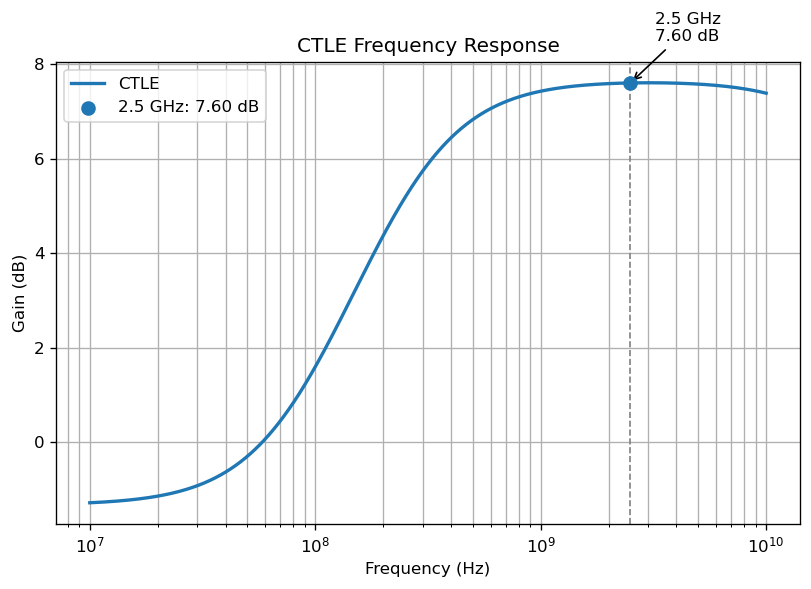
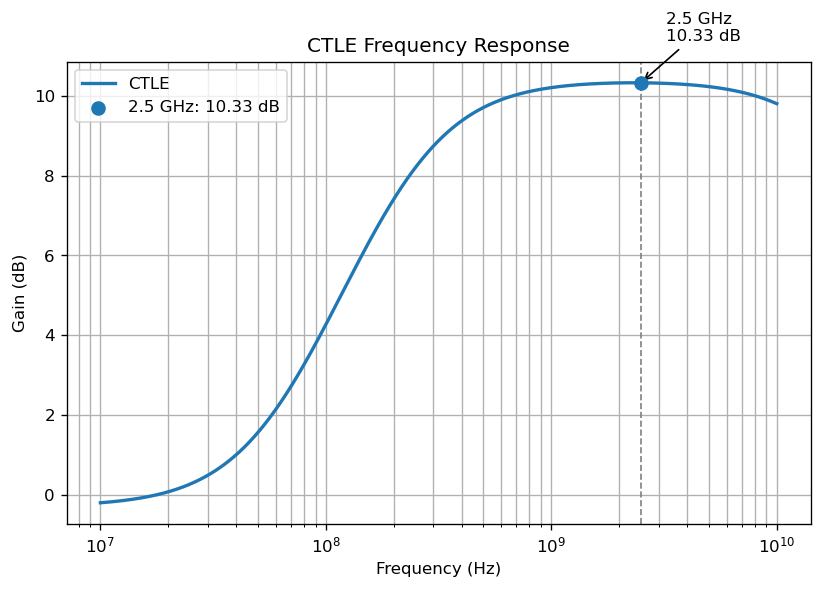
uploaded pvt analysis functions

diff --git a/simulation/pvt_analysis.py b/simulation/pvt_analysis.py
@@ -1,0 +1,93 @@
+import core
+globals().update(vars(core))
+
+from circuits.ctle import ctle
+
+from simulation.frequency_response import *
+from simulation.hd3_analysis import *
+from simulation.eye_analysis import *
+from simulation.noise_analysis import *
+
+PROCESS_CORNERS = ["tt", "ss", "ff", "sf", "fs"]
+VDD_VALUES = [1.71, 1.80, 1.89]
+TEMPERATURES = list(range(0,126,25))
+
+def pvt_analysis(
+    W, L, Rs, Cs, Rd, Ibias
+):
+
+    results = []
+
+    for corner in PROCESS_CORNERS:
+        for vdd in VDD_VALUES:
+            for temperature in TEMPERATURES:
+
+                print(
+                    f"\nPVT: {corner} | "
+                    f"VDD={vdd:.2f} V | "
+                    f"T={temperature} C"
+                )
+
+                freq = frequency_response(
+                    W=W,
+                    L=L,
+                    Rs=Rs,
+                    Cs=Cs,
+                    Rd=Rd,
+                    Ibias=Ibias,
+                    corner=corner,
+                    Vdd=vdd,
+                    temperature=temperature)
+
+                hd3 = hd3_analysis(
+                    W=W,
+                    L=L,
+                    Rs=Rs,
+                    Cs=Cs,
+                    Rd=Rd,
+                    Ibias=Ibias,
+                    corner=corner,
+                    Vdd=vdd,
+                    temperature=temperature)
+
+                noise = input_referred_noise(
+                    W=W,
+                    L=L,
+                    Rs=Rs,
+                    Cs=Cs,
+                    Rd=Rd,
+                    Ibias=Ibias,
+                    corner=corner,
+                    Vdd=vdd,
+                    temperature=temperature)
+
+                result = {
+                    "corner": corner,
+                    "vdd": vdd,
+                    "temperature": temperature,
+                    "dc_gain": freq["dc_gain"],
+                    "boost_db": freq["boost_db"],
+                    "peak_freq": freq["peak_freq"],
+                    "hd3_db": hd3,
+                    "noise_rms": noise,
+                }
+
+                result["pass"] = (
+                    3 <= freq["boost_db"] <= 12
+                    and 1.25e9 <= freq["peak_freq"] <= 2.5e9
+                    and hd3 < -30
+                    and noise < 1.5e-3
+                )
+
+                results.append(result)
+
+                print(
+                    f"  DC gain : {freq['dc_gain']:.2f} dB\n"
+                    f"  Boost   : {freq['boost_db']:.2f} dB\n"
+                    f"  Peak    : {freq['peak_freq']/1e9:.2f} GHz\n"
+                    f"  HD3     : {hd3:.2f} dB\n"
+                    f"  Noise   : {noise*1e3:.3f} mV RMS\n"
+                    f"  PASS    : {result['pass']}"
+                )
+
+    return results

diff --git a/evaluate.py b/evaluate.py
@@ -7,12 +7,39 @@ from simulation.frequency_response import *
 from simulation.hd3_analysis import *
 from simulation.eye_analysis import *
 from simulation.noise_analysis import *
+from simulation.pvt_analysis import *
 
 params = CTLEParams()
 
 print(params)
 
-frequency_response(
+# frequency_response(
+#     W = CTLEParams.W,
+#     L = CTLEParams.L,
+#     Rs = CTLEParams.Rs,
+#     Cs = CTLEParams.Cs,
+#     Rd = CTLEParams.Rd,
+#     Ibias = CTLEParams.Ibias)
+
+# print(hd3_analysis(
+#     W = CTLEParams.W,
+#     L = CTLEParams.L,
+#     Rs = CTLEParams.Rs,
+#     Cs = CTLEParams.Cs,
+#     Rd = CTLEParams.Rd,
+#     Ibias = CTLEParams.Ibias)
+# )
+
+# print(input_referred_noise(
+#     W = CTLEParams.W,
+#     L = CTLEParams.L,
+#     Rs = CTLEParams.Rs,
+#     Cs = CTLEParams.Cs,
+#     Rd = CTLEParams.Rd,
+#     Ibias = CTLEParams.Ibias
+#     ))
+
+x = pvt_analysis(
     W = CTLEParams.W,
     L = CTLEParams.L,
     Rs = CTLEParams.Rs,
@@ -20,20 +47,4 @@ frequency_response(
     Rd = CTLEParams.Rd,
     Ibias = CTLEParams.Ibias)
 
-print(hd3_analysis(
-    W = CTLEParams.W,
-    L = CTLEParams.L,
-    Rs = CTLEParams.Rs,
-    Cs = CTLEParams.Cs,
-    Rd = CTLEParams.Rd,
-    Ibias = CTLEParams.Ibias)
-)
-
-print(input_referred_noise(
-    W = CTLEParams.W,
-    L = CTLEParams.L,
-    Rs = CTLEParams.Rs,
-    Cs = CTLEParams.Cs,
-    Rd = CTLEParams.Rd,
-    Ibias = CTLEParams.Ibias
-    ))
+print(pvt_analysis)

diff --git a/llm_optimizer.py b/llm_optimizer.py
@@ -80,7 +80,8 @@ def ask_claude(
         f"### Simulation results (iteration {iteration})\n\n"
         f"| Metric            | Value                        | Target                        |\n"
         f"|-------------------|------------------------------|-------------------------------|\n"
-        f"| DC gain           | {freq_metrics['dc_gain']:.2f} dB         | 0 dB. Take care not to make it too negative.                             |\n"
+        f"| DC gain           | {freq_metrics['dc_gain']:.2f} dB         | Prefer close to 0 dB; avoid excessive negative gain.                             |\n"
+        f"| Max Gain Frequency| {freq_metrics['peak_freq']/1e9:.2f} GHz         | Maximum gain frequency must be <= 2.5 GHz and >= 1.25GHz. Take care not to cross over.                             |\n"
         f"| Gain @ 2.5 GHz    | {freq_metrics['gain_at_nyquist']:.2f} dB | —                             |\n"
         f"| Boost (2.5G–DC)   | {freq_metrics['boost_db']:.2f} dB        | 3.0 – 12.0 dB                 |\n"
         f"| Peak gain         | {freq_metrics['peak_gain']:.2f} dB @ {freq_metrics['peak_freq']/1e9:.2f} GHz | peak in 1.25–2.5 GHz |\n"

diff --git a/simulation/hd3_analysis.py b/simulation/hd3_analysis.py
@@ -9,12 +9,15 @@ def hd3_analysis(
     Rs=50.5,
     Cs=3.3e-12,
     Rd=80,
-    Ibias=1.25e-3
+    Ibias=1.25e-3,
+    Vdd = 1.8,
+    temperature = 27,
+    corner = 'tt'
     ):
 
     circuit = Circuit("CTLE")
 
-    circuit.raw_spice += f'.lib "{_PDK_LIB}" tt'
+    circuit.raw_spice += f'.lib "{_PDK_LIB}" {corner}'
 
     circuit.subcircuit(
         ctle(
@@ -31,7 +34,7 @@ def hd3_analysis(
         'dd',
         'vdd',
         circuit.gnd,
-        1.8 @ u_V
+        Vdd @ u_V
     )
 
     circuit.X(
@@ -56,8 +59,9 @@ def hd3_analysis(
 
     netlist = str(circuit)
 
-    netlist += """
+    netlist += f"""
     .control
+    .temp {temperature}
     set filetype=ascii
     tran 10p 1u
     set wr_singlescale

diff --git a/simulation/frequency_response.py b/simulation/frequency_response.py
@@ -11,11 +11,14 @@ def frequency_response(
     Rd=100,
     Ibias=1.25e-3,
     save_path=None,
+    Vdd = 1.8,
+    temperature = 27,
+    corner = 'tt'
     ):
 
     circuit = Circuit("CTLE")
 
-    circuit.raw_spice += f'.lib "{_PDK_LIB}" tt'
+    circuit.raw_spice += f'.lib "{_PDK_LIB}" {corner}'
 
     circuit.subcircuit(
         ctle(
@@ -32,7 +35,7 @@ def frequency_response(
         'dd',
         'vdd',
         circuit.gnd,
-        1.8 @ u_V
+        Vdd @ u_V
     )
 
     circuit.X(
@@ -54,7 +57,7 @@ Vvin2 vinn 0 DC 1.2 AC 1m 180
 """
 
     simulator = circuit.simulator(
-        temperature=27,
+        temperature=temperature,
         nominal_temperature=27
     )
 

diff --git a/simulation/noise_analysis.py b/simulation/noise_analysis.py
@@ -11,11 +11,14 @@ def input_referred_noise(
     Cs=3.3e-12,
     Rd=100,
     Ibias=1.25e-3,
+    Vdd = 1.8,
+    temperature = 27,
+    corner = 'tt'
 ):
 
     circuit = Circuit("CTLE Noise")
 
-    circuit.raw_spice += f'.lib "{_PDK_LIB}" tt'
+    circuit.raw_spice += f'.lib "{_PDK_LIB}" {corner}'
 
     circuit.subcircuit(
         ctle(
@@ -32,7 +35,7 @@ def input_referred_noise(
         'dd',
         'vdd',
         circuit.gnd,
-        1.8 @ u_V
+        Vdd @ u_V
     )
 
     circuit.X(
@@ -54,7 +57,7 @@ Vdiff vinn vinp DC 0 AC 1
 """
 
     simulator = circuit.simulator(
-        temperature=27,
+        temperature=temperature,
         nominal_temperature=27
     )
 

diff --git a/evaluation/params.py b/evaluation/params.py
@@ -3,15 +3,14 @@ globals().update(vars(core))
 
 from dataclasses import dataclass
 
-
 @dataclass
 class CTLEParams:
 
     W: float = 99.6
     L: float = 0.15
 
-    Rs: float = 250.0
-    Cs: float = 10.0e-12
+    Rs: float = 245.0
+    Cs: float = 9.5e-12
 
-    Rd: float = 190.0
+    Rd: float = 250.0
     Ibias: float = 1.25e-3
